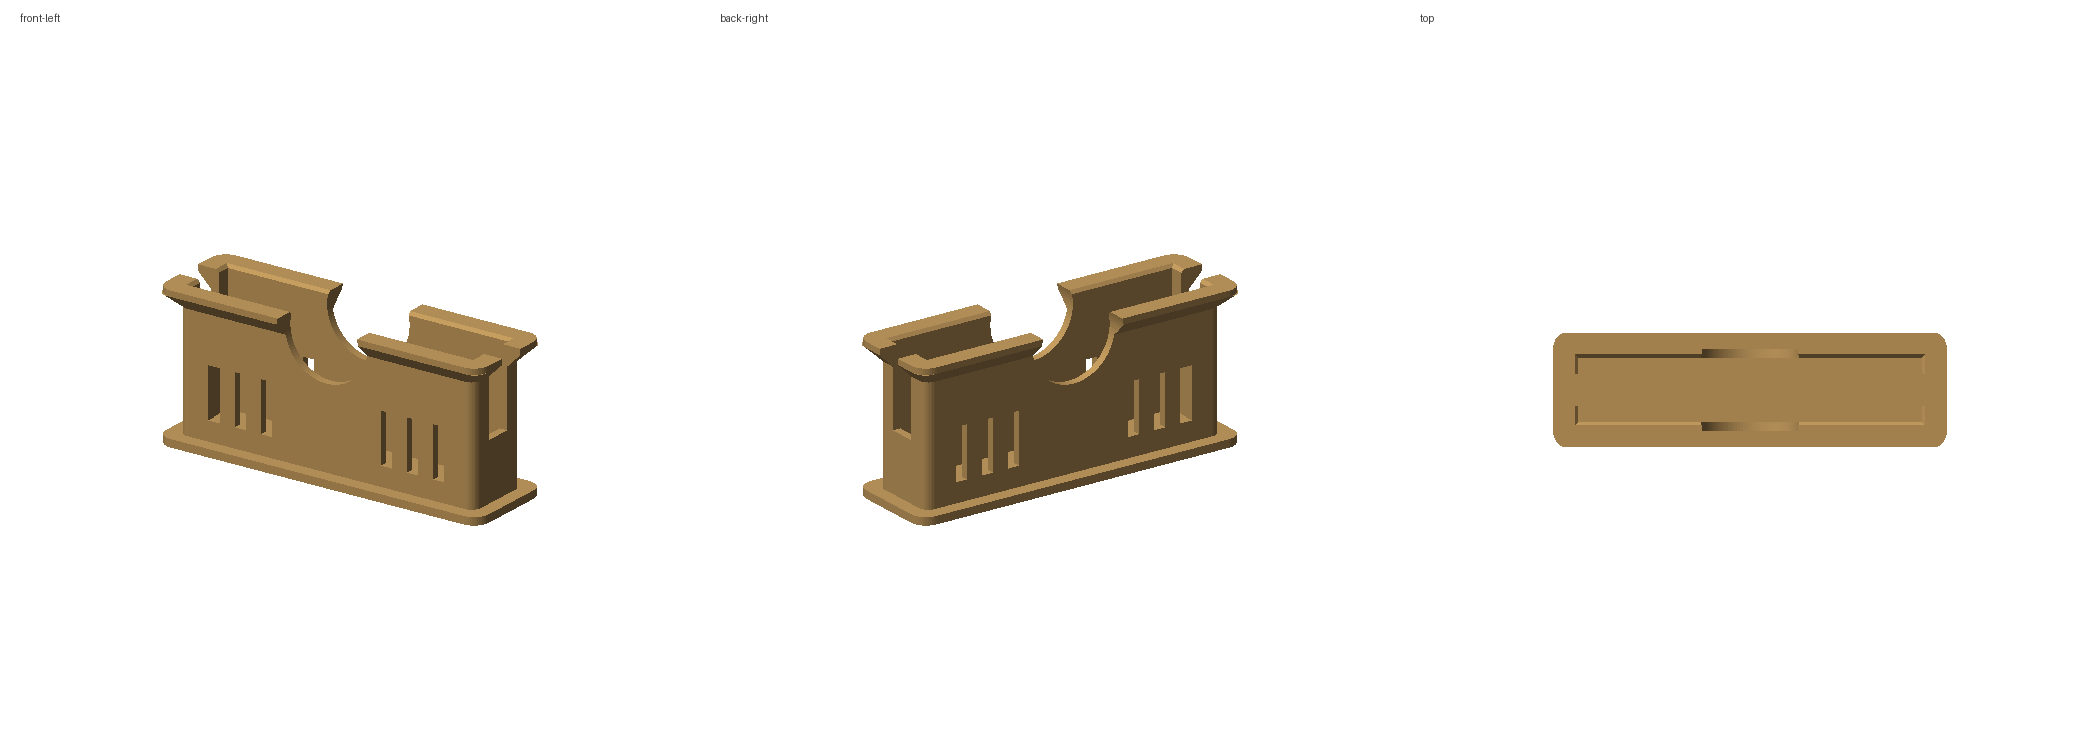
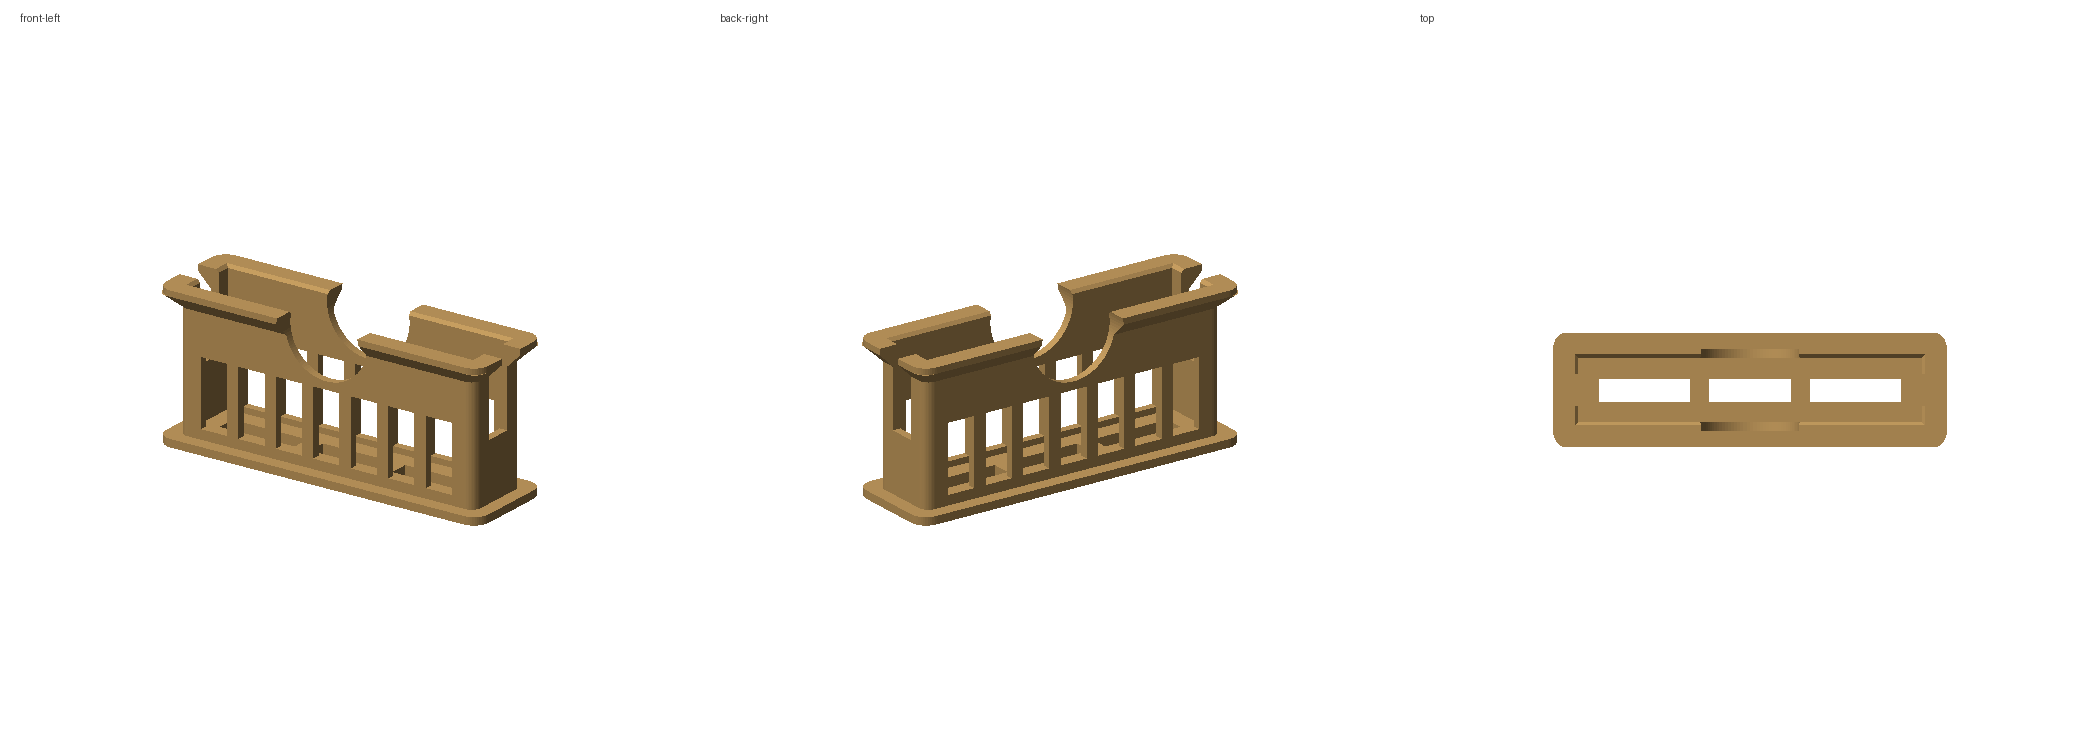
Improve charger holder airflow: large vent windows and floor slots
Exposed brick face area goes from ~31% to ~52%, plus air inlet slots under
the brick.

Claude-Session: https://claude.ai/code/session_013Hi1mb9xuqoBUH8umXAPND

Changed region(s): [[0.4333, 0.4662, 0.5881, 0.6838], [0.0929, 0.4662, 0.2167, 0.6838], [0.7429, 0.4973, 0.9286, 0.5595]]

diff --git a/tablet-storage/build_charger_holder.py b/tablet-storage/build_charger_holder.py
@@ -36,11 +36,13 @@ CHAMFER = GROOVE                   # 顶挡边下方 45° 过渡 (不需支撑)
 FLOOR = 6.0                        # 槽底高度
 WIND_H = 60.0                      # 直段绕线区高度 (两条线约需 52, 留余量)
 SCOOP_R = 22.0                     # 两侧取放用的半圆缺口
-SCOOP_BOTTOM = 46.0
+SCOOP_BOTTOM = 47.0
 NOTCH_W = 14.0                     # 两端出线缺口宽度 (DC 线护套)
 NOTCH_BOTTOM = 34.0
-VENT_W, VENT_Z0, VENT_Z1 = 6.0, 14.0, 40.0
-VENT_X = [32.0, 46.0, 60.0]        # 散热缝中心 x (左右对称), 避开取放缺口
+VENT_W, VENT_Z0, VENT_Z1 = 14.0, 9.0, 43.0      # 前后壁散热窗 (只留 6 mm 肋条)
+VENT_X = [-60.0, -40.0, -20.0, 0.0, 20.0, 40.0, 60.0]
+FLOOR_SLOT_W = 10.0                # 槽底散热缝 (变压器只压在两侧窄肋上, 底部可进风)
+FLOOR_SLOTS = [(-66.0, -26.0), (-18.0, 18.0), (26.0, 66.0)]
 
 FIT_TEST = "--fit-test" in sys.argv
 if FIT_TEST:
@@ -80,9 +82,10 @@ def build():
             scoop = scoop.translate((0, y0, SCOOP_BOTTOM + SCOOP_R))
             body -= scoop
             # 散热缝 (只开在核心壁上, 绕线从外面盖过不影响)
-            for sx in (-1, 1):
-                for vx in VENT_X:
-                    body -= box(sx * vx - VENT_W / 2, y0, VENT_Z0, sx * vx + VENT_W / 2, y1, VENT_Z1)
+            for vx in VENT_X:
+                body -= box(vx - VENT_W / 2, y0, VENT_Z0, vx + VENT_W / 2, y1, VENT_Z1)
+        for x0, x1 in FLOOR_SLOTS:
+            body -= box(x0, -FLOOR_SLOT_W / 2, -1, x1, FLOOR_SLOT_W / 2, FLOOR + 1)
     return body
 
 
